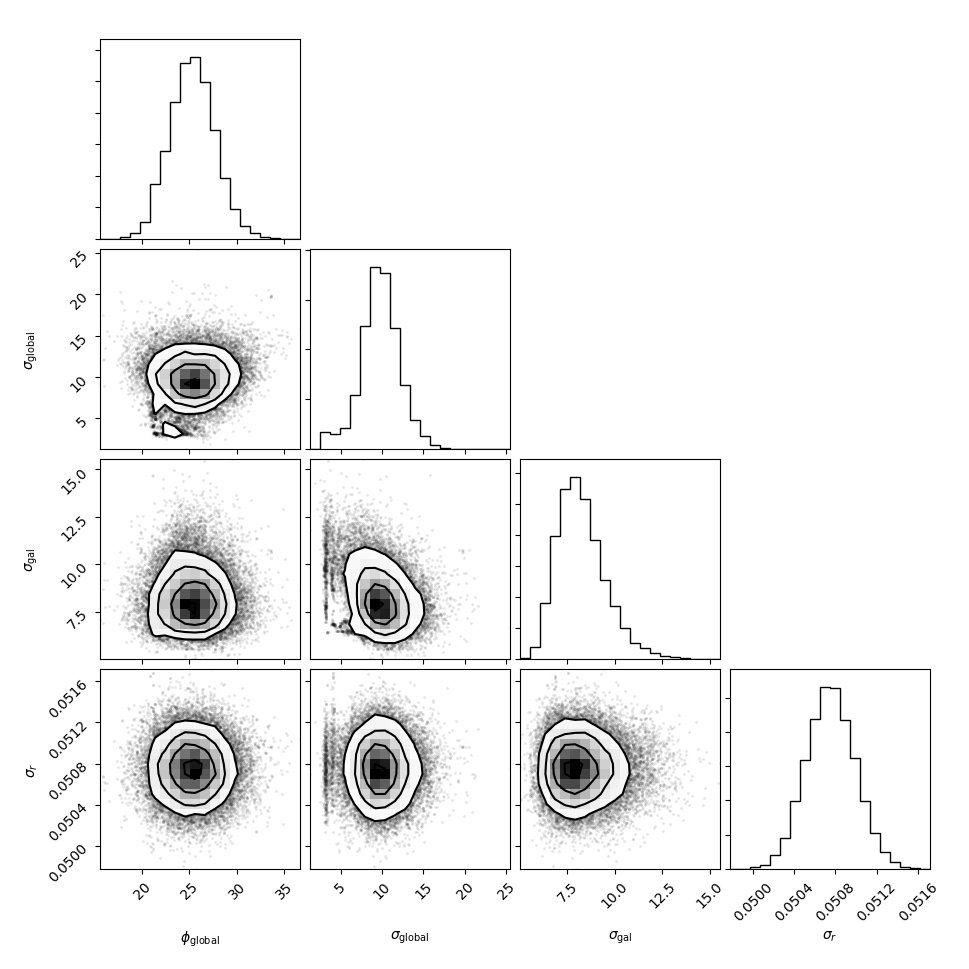
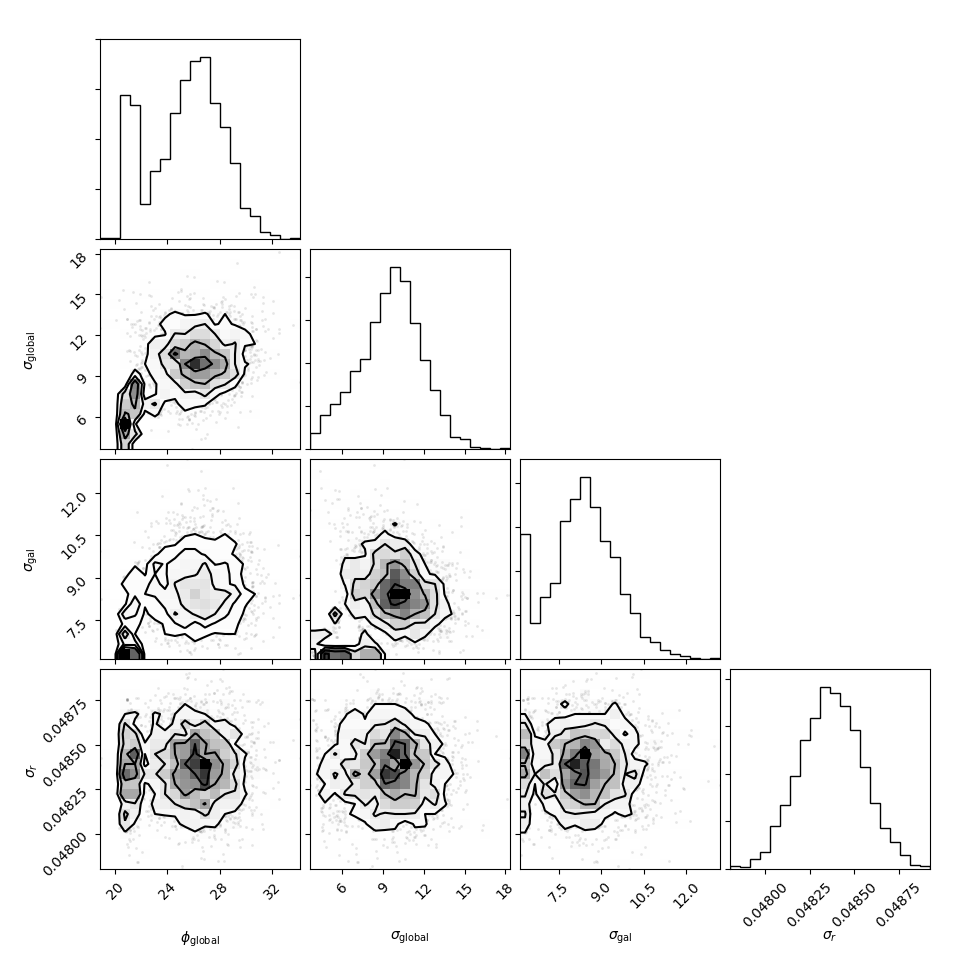
contines to iterate on model to improve convergence

diff --git a/super_simple/hierarchial_model.py b/super_simple/hierarchial_model.py
@@ -6,6 +6,9 @@ from types import SimpleNamespace
 
 class BHSM():
     def __init__(self, galaxies):
+        """Accepts a list of groups of arm polar coordinates, and builds a
+        PYMC3 hierarchial model to infer global distributions of pitch angle
+        """
         self.galaxies = galaxies
         self.gal_n_arms = [len(g) for g in galaxies]
 
@@ -27,6 +30,10 @@ class BHSM():
             for arm_n, (arm_T, arm_R) in enumerate(galaxy)
         ])
 
+        # assert we do not have any NaNs
+        if np.any(np.isnan(self.point_data)):
+            raise ValueError('NaNs present in arm values')
+
         self.T, self.R, arm_idx, self.gal_idx = self.point_data.T
         self.arm_idx = arm_idx.astype(int)
 
@@ -41,7 +48,7 @@ class BHSM():
         # Define Stochastic variables
         with pm.Model() as self.model:
             # Global mean pitch angle
-            self.global_pa_mu = pm.Uniform(
+            self.global_pa_mu = pm.Normal(
                 'pa',
                 lower=0, upper=90,
                 testval=20
@@ -51,7 +58,7 @@ class BHSM():
             self.global_pa_sd = pm.InverseGamma('pa_sd', alpha=2, beta=20)
 
             # intra-galaxy dispersion
-            self.gal_pa_sd = pm.InverseGamma('gal_pa_sd', alpha=2, beta=20)
+            self.gal_pa_sd = pm.InverseGamma('gal_pa_sd', alpha=2, beta=10)
 
             # arm offset parameter
             self.arm_c = pm.Cauchy(
@@ -92,13 +99,13 @@ class BHSM():
 
             # use a Potential for the truncation, pm.Potential('foo', N) simply
             # adds N to the log likelihood
-            pm.Potential(
-                'gal_pa_mu_bound',
-                (
-                    tt.switch(tt.all(self.gal_pa_mu > 0), 0, -np.inf)
-                    + tt.switch(tt.all(self.gal_pa_mu < 90), 0, -np.inf)
-                )
-            )
+            # pm.Potential(
+            #     'gal_pa_mu_bound',
+            #     (
+            #         tt.switch(tt.all(self.gal_pa_mu > 0), 0, -np.inf)
+            #         + tt.switch(tt.all(self.gal_pa_mu < 90), 0, -np.inf)
+            #     )
+            # )
 
             self.arm_pa_mu_offset = pm.Normal(
                 'arm_pa_mu_offset',
@@ -110,13 +117,13 @@ class BHSM():
                 self.gal_pa_mu[self.gal_arm_map]
                 + self.arm_pa_mu_offset * self.gal_pa_sd
             )
-            pm.Potential(
-                'arm_pa_mu_bound',
-                (
-                    tt.switch(tt.all(self.arm_pa > 0), 0, -np.inf)
-                    + tt.switch(tt.all(self.arm_pa < 90), 0, -np.inf)
-                )
-            )
+            # pm.Potential(
+            #     'arm_pa_mu_bound',
+            #     (
+            #         tt.switch(tt.all(self.arm_pa > 0), 0, -np.inf)
+            #         + tt.switch(tt.all(self.arm_pa < 90), 0, -np.inf)
+            #     )
+            # )
 
             # convert to a gradient for a linear fit
             self.arm_b = tt.tan(np.pi / 180 * self.arm_pa)
@@ -135,3 +142,26 @@ class BHSM():
                 sigma=self.sigma,
                 observed=self.R
             )
+
+    def do_inference(self, draws=500, tune=500, target_accept=0.95,
+                     max_treedepth=20, init='advi+adapt_diag',
+                     **kwargs):
+        # it's important we now check the model specification, namely do we
+        # have any problems with logp being undefined?
+        with self.model as model:
+            print(model.check_test_point())
+        # Sampling
+        with self.model as model:
+            if kwargs.get('backend', False):
+                db = pm.backends.Text(kwargs.pop('backend'))
+                kwargs = {'trace': db, **kwargs}
+            trace = pm.sample(
+                draws=draws,
+                tune=tune,
+                target_accept=target_accept,
+                max_treedepth=20,
+                init=init,
+                **kwargs
+            )
+
+        return trace

diff --git a/do_inference.py b/do_inference.py
@@ -7,7 +7,7 @@ from super_simple.hierarchial_model import BHSM
 
 
 # used to limit sample for testing
-N_GALS = 25
+N_GALS = 36
 
 loc = os.path.abspath(os.path.dirname(__file__))
 
@@ -43,16 +43,16 @@ with bhsm.model as model:
 # Sampling
 with bhsm.model as model:
     db = pm.backends.Text('saved_gzb_bhsm_trace')
-    trace = pm.sample(500, tune=500, target_accept=0.90, max_treedepth=20,
-                      init='advi+adapt_diag', trace=db)
+    trace = bhsm.do_inference(draws=500, tune=500, backend='saved_gzb_bhsm_trace')
+    divergent = trace['diverging']
 
-print('Trace Summary:')
-print(pm.summary(trace).round(2).sort_values(by='Rhat', ascending=False))
-
-divergent = trace['diverging']
 print('Number of Divergent %d' % divergent.nonzero()[0].size)
 divperc = divergent.nonzero()[0].size / len(trace) * 100
 print('Percentage of Divergent %.1f' % divperc)
+
+
+print('Trace Summary:')
+print(pm.summary(trace).round(2).sort_values(by='Rhat', ascending=False))
 
 # save EVERYTHING
 with open('pickled_result.pickle', "wb") as buff:

diff --git a/make_plots.py b/make_plots.py
@@ -66,17 +66,6 @@ del sid_list
 with bhsm.model as model:
     trace = pm.backends.text.load('saved_gzb_bhsm_trace')
 
-    # Save the model
-    try:
-        pm.model_to_graphviz(model)
-        plt.savefig(
-            os.path.join(loc, 'plots/model.png'),
-            bbox_inches='tight'
-        )
-        plt.close()
-    except ImportError:
-        pass
-
 
 print('Getting predictions')
 with bhsm.model as model:

diff --git a/README.md b/README.md
@@ -41,6 +41,22 @@ We have, from *Galaxy Builder*, 199 galaxies with 367 spiral arms between them. 
 We want to be able to describe the distributions of $\mu_\mathrm{global}$, $\sigma_\mathrm{global}$ and $\sigma_\mathrm{gal}$, for a given morphological type.
 
 
+### Non-centered model
+
+Change
+
+$$y \sim \mathrm{Normal}(\mu_a, \sigma)$$
+
+$$\mu_a \sim \mathrm{Normal}(\mu_a, \sigma)$$
+
+to
+
+$$t \sim \mathrm{Normal}(0, 1)$$
+
+$$y \sim \mathrm{Normal}(0, 1)$$
+
+$$y = mu + \sigma \sim \mathrm{Normal}(0, 1)$$
+
 ### In Practise
 
 We use a NUTS sampler, initialized by running ADVI and then adapt the resulting diagonal mass matrix based on the sample variance of the tuning samples (performed entirely by `pymc3`, because it's very clever). We tune for **1000** steps and then sample **2000** steps for our results.
